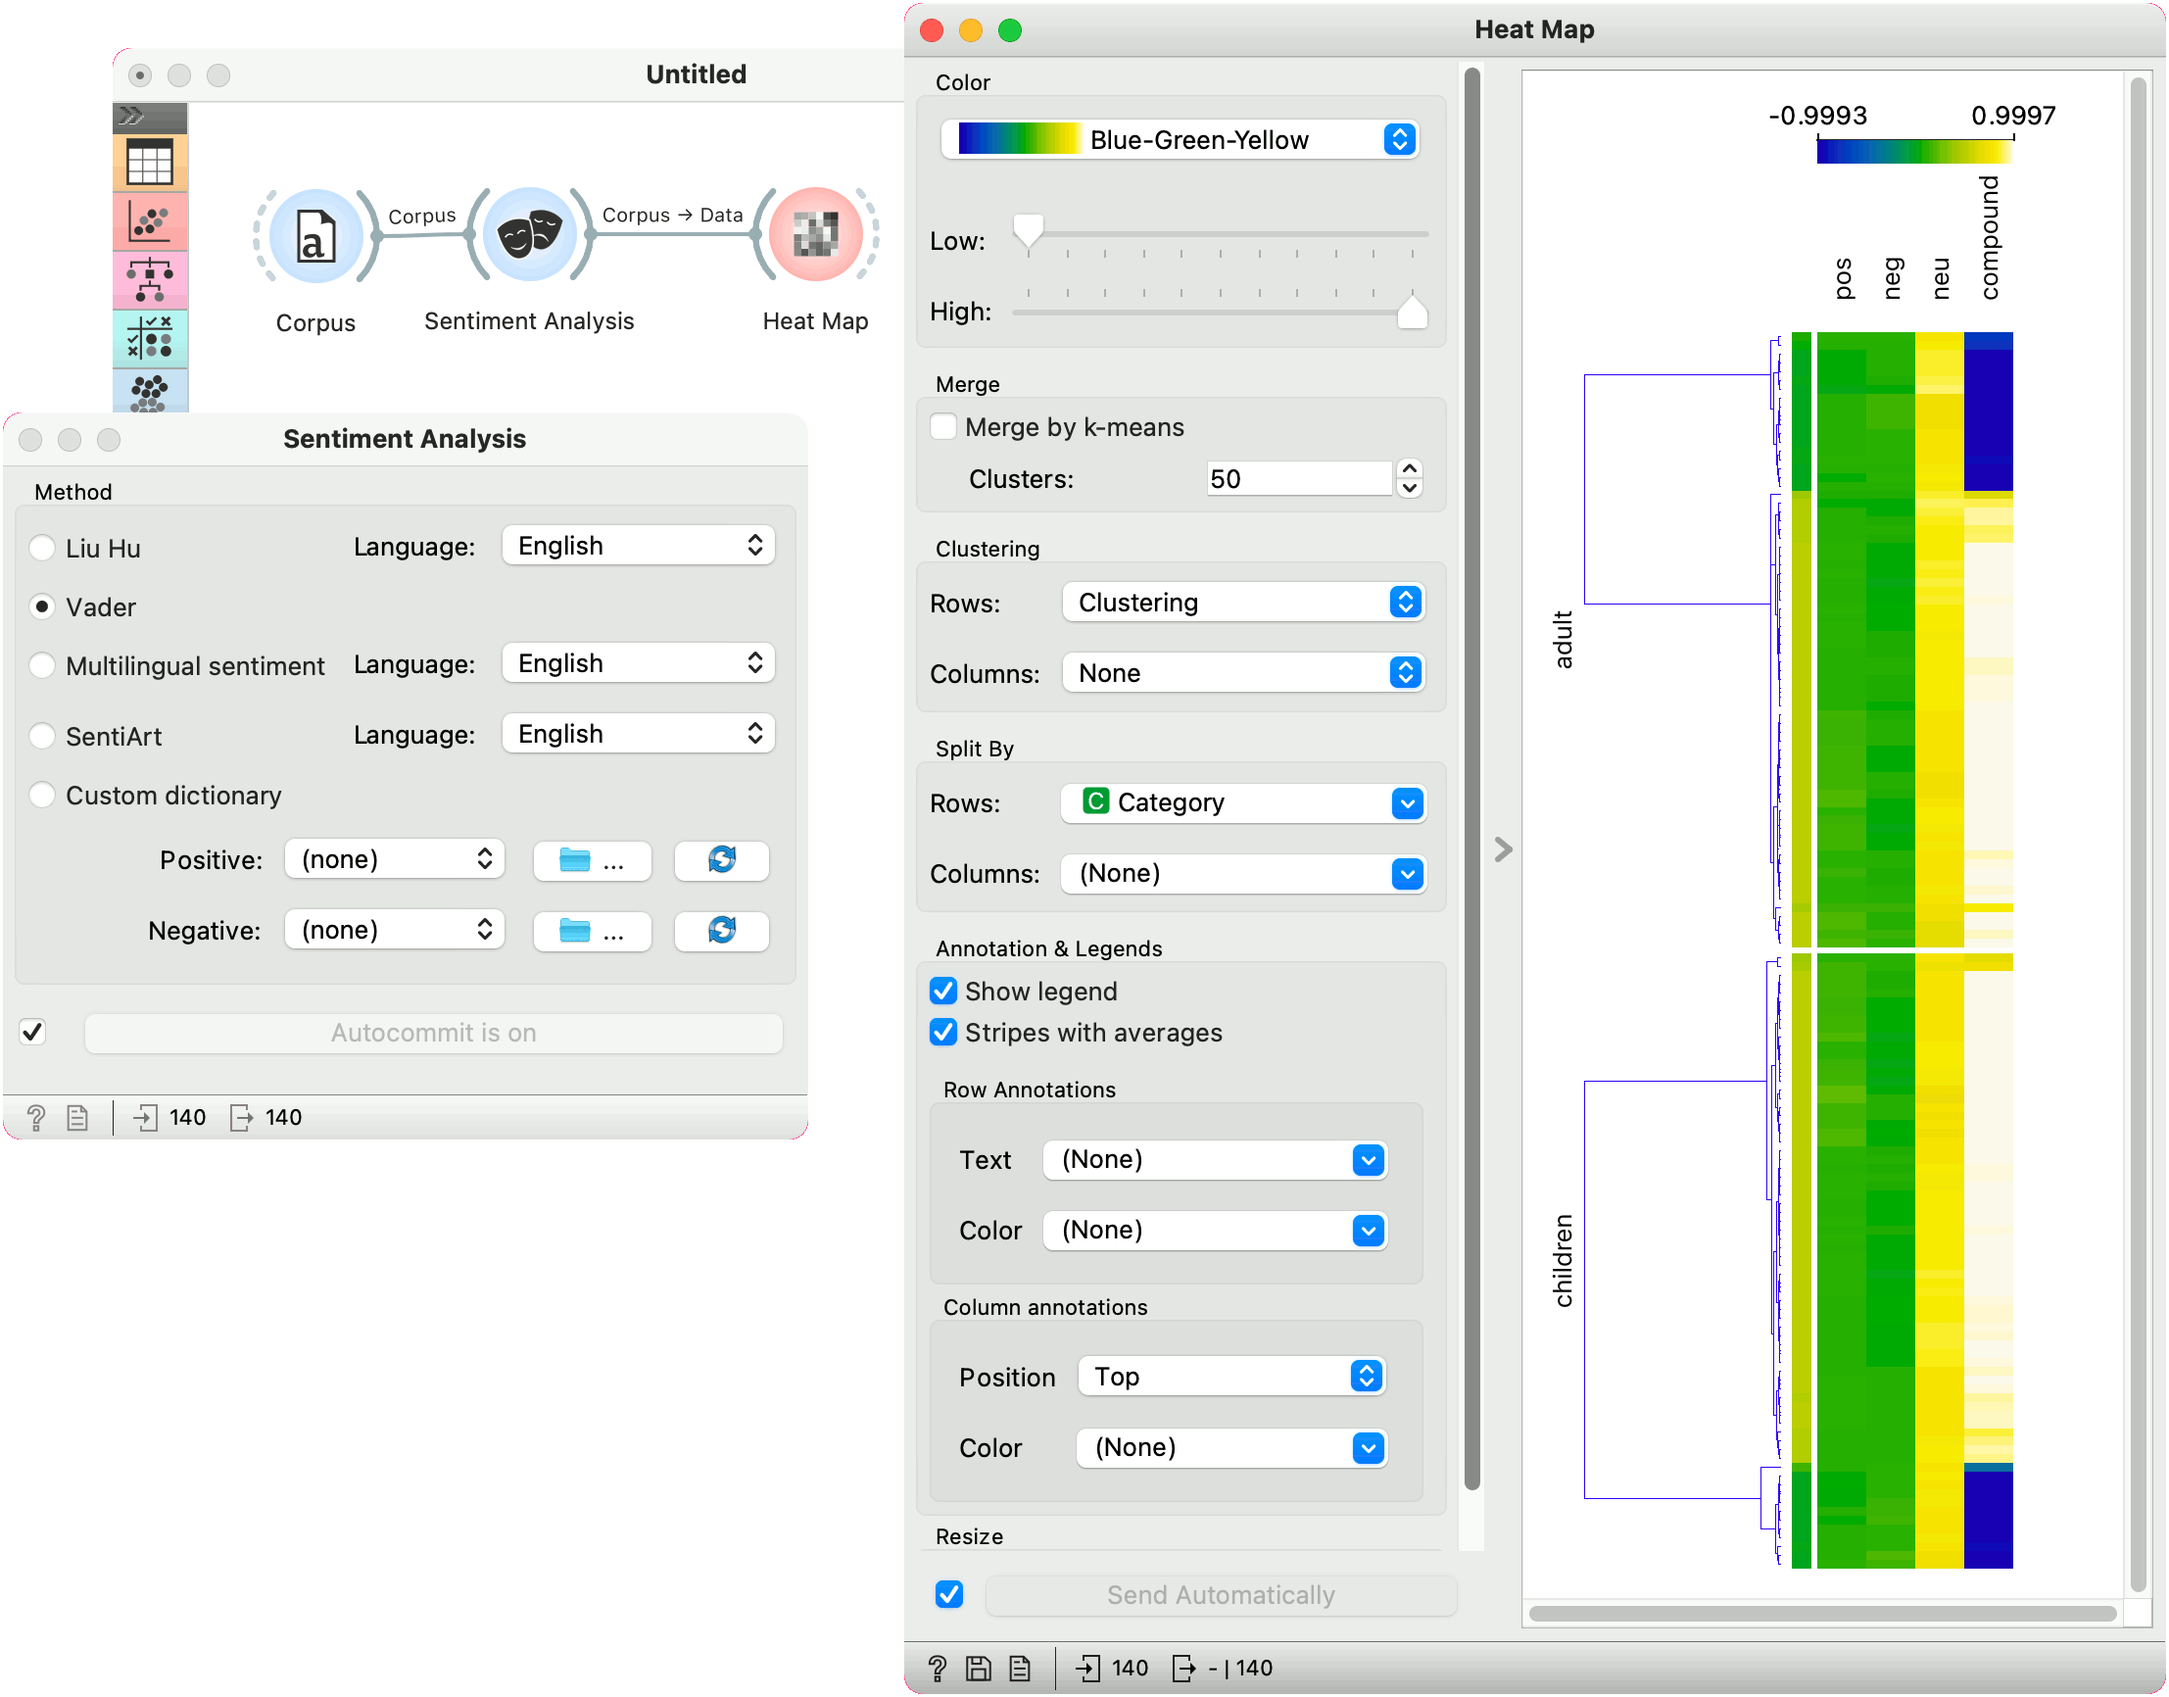
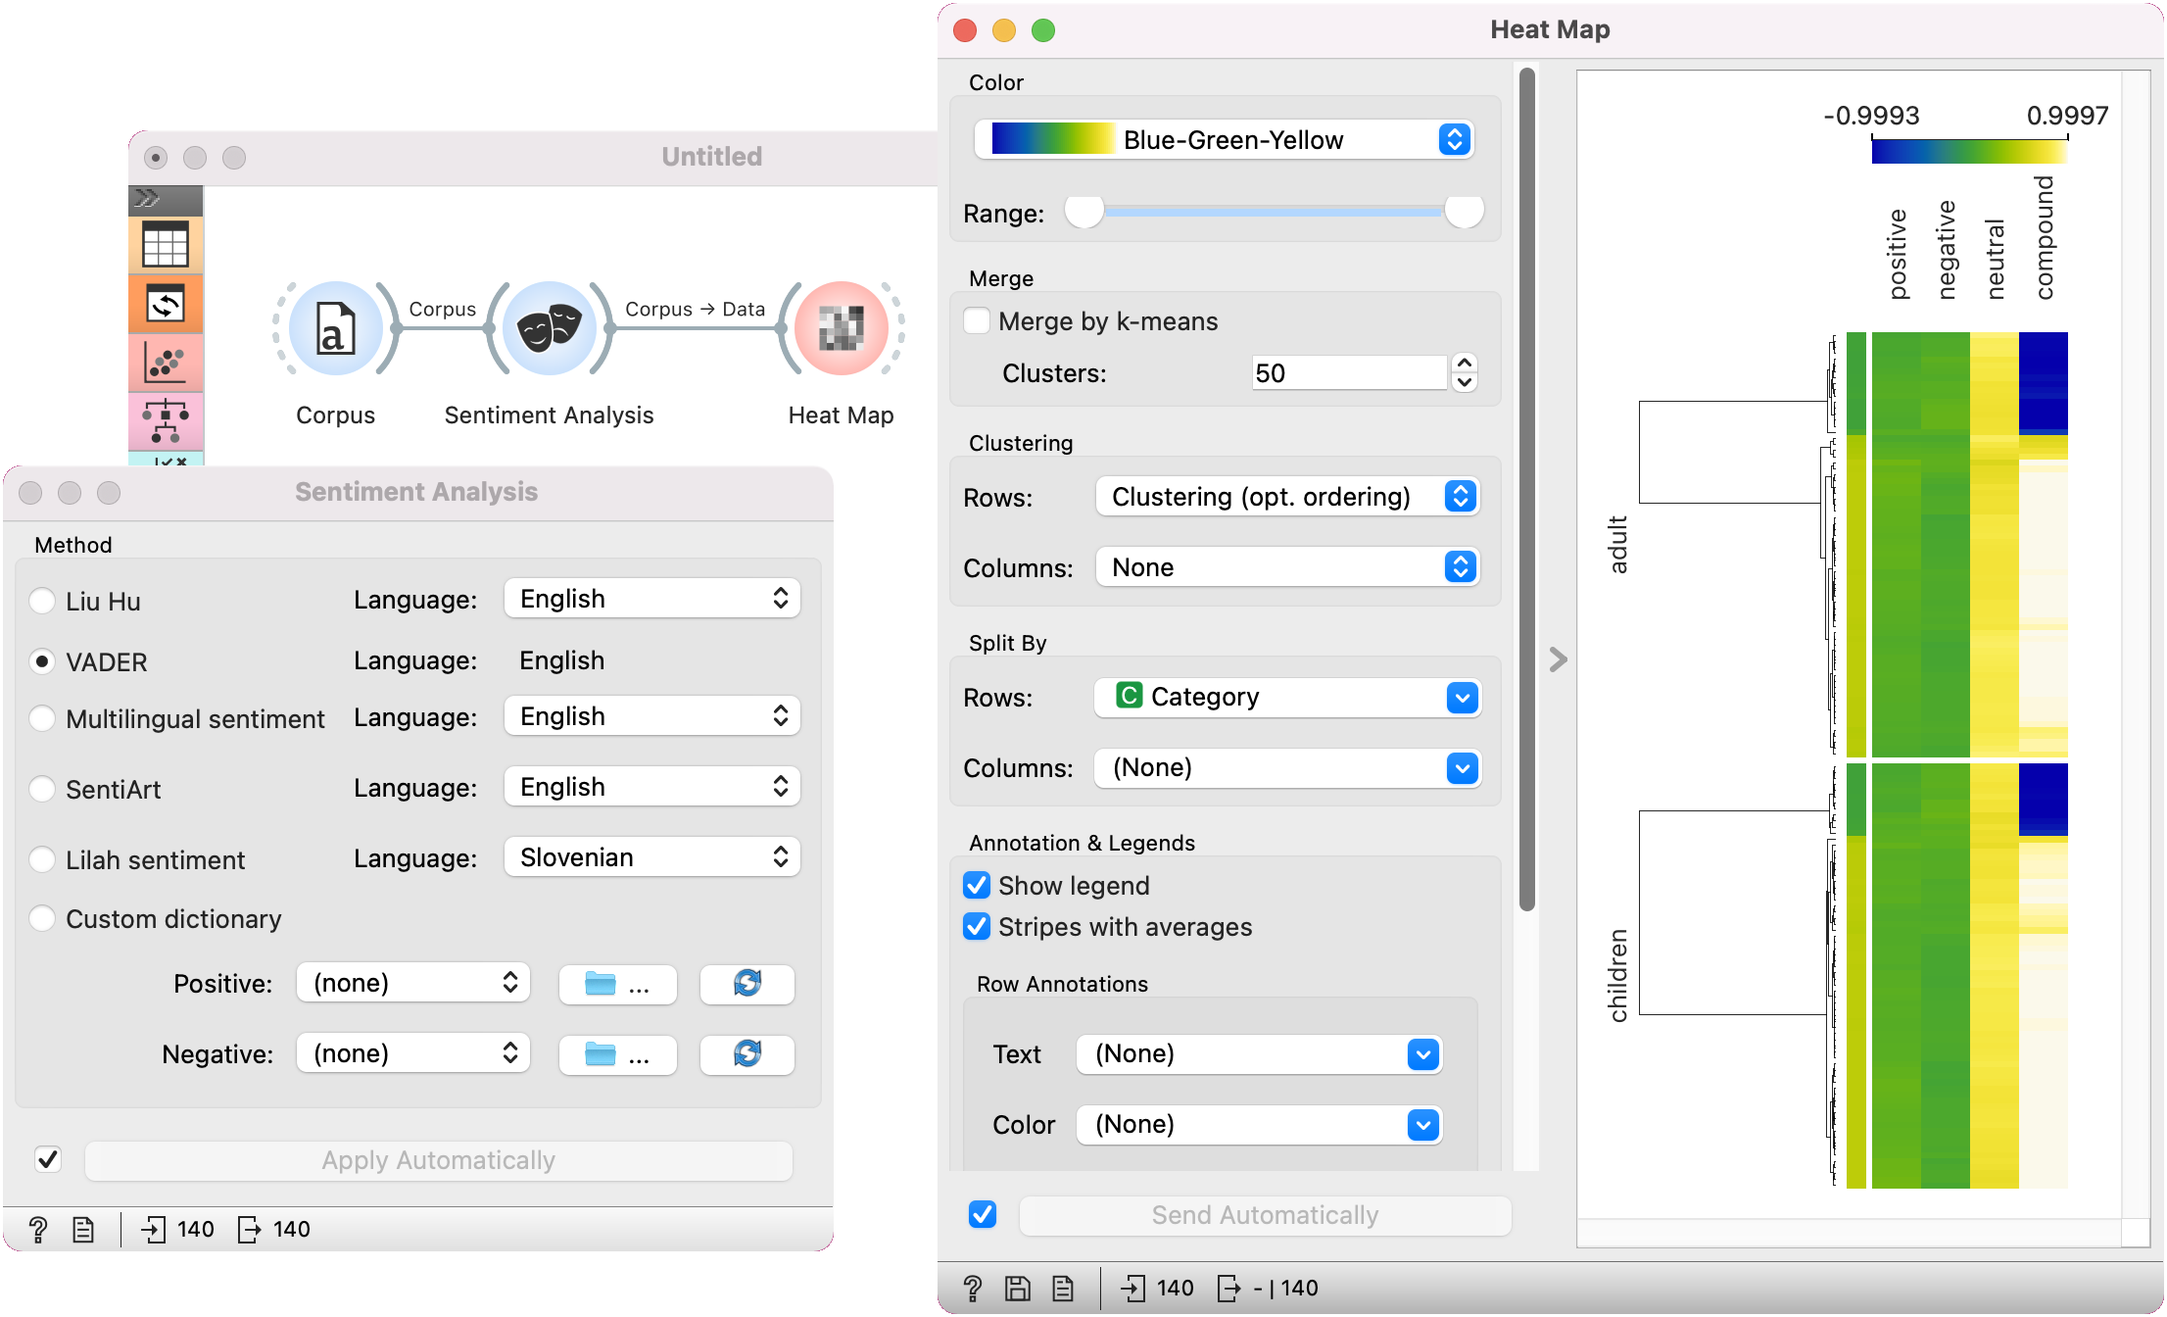
HeatMap

diff --git a/source/widgets/visualize/heatmap.md b/source/widgets/visualize/heatmap.md
@@ -16,20 +16,20 @@ Plots a heat map for a pair of attributes.
 
 The widget enables row selection with click and drag. One can zoom in with Ctrl++ (Cmd++) and zoom out with Ctrl+- (Cmd+-). Ctrl+0 (Cmd+0) resets zoom to the extended version, while Ctrl+9 (Cmd+9) reset it to the default.
 
-![](images/HeatMap.png)
+![](images/HeatMap-stamped.png)
 
-1. The color pallette. Choose from linear, diverging, color-blind friendly, or other pallettes. **Low** and **High** are thresholds for the color palette (low for attributes with low values and high for attributes with high values). Selecting one of diverging palettes, which have two extreme colors and a neutral (black or white) color at the midpoint, enables an option to set a meaningful mid-point value (default is 0).
+1. The color pallette. Choose from linear, diverging, color-blind friendly, or other pallettes. **Range** defines the low or high threshold for the color palette (left for attributes with low values and right for attributes with high values). Selecting one of diverging palettes, which have two extreme colors and a neutral (black or white) color at the midpoint, enables an option to set a meaningful mid-point value (default is 0).
 2. Merge rows. If there are too many rows in the visualization, one can merge them with k-means algorithm into N selected clusters (default 50).
 3. Cluster columns and rows:
    - **None** (lists attributes and rows as found in the dataset)
-   - **Clustering** (clusters data by similarity with hierarchical clustering on Euclidean distances and with average linkage)
+   - **Clustering** (clusters data by similarity with hierarchical clustering on Euclidean distances and with Ward linkage)
    - **Clustering with ordered leaves** (same as clustering, but it additionally maximizes the sum of similarities of adjacent elements)
 4. Split rows or columns by a categorical variable. If the data contains a class variable, rows will be automatically split by class.
-5. Set what is displayed in the plot in **Annotation & Legend**.
+5. **Annotation & Legend** sets what is displayed in the plot:
    - If *Show legend* is ticked, a color chart will be displayed above the map.
    - If *Stripes with averages* is ticked, a new line with attribute averages will be displayed on the left.
-   **Row Annotations** adds annotations to each instance on the right. Color colors the instances with the corresponding value of the selected categorical variable.
-   **Column Annotations** adds annotation to each variable at the selected position (default is Top). Color colors the columns with the corresponding value of the selected column annotation.
+   **Row Annotations** adds annotations to each instance on the right. *Color* colors the instances with the corresponding value of the selected categorical variable.
+   **Column Annotations** adds annotation to each variable at the selected position (default is Top). *Color* colors the columns with the corresponding value of the selected column annotation.
 6. If *Keep aspect ratio* is ticked, each value will be displayed with a square (proportionate to the map).
 7. If *Send Automatically* is ticked, changes are communicated automatically. Alternatively, click *Send*.
 
@@ -38,8 +38,6 @@ The widget enables row selection with click and drag. One can zoom in with Ctrl+
 Heat map enables some neat plot enhancements. Such options are clustering of rows and/or columns for better data organization, row and column annotations, and splitting the data by categorical variables.
 
 Row and column clustering is performed independently. Row clustering is computed from Euclidean distances, while column clustering uses Pearson correlation coefficients. Hierarchical clustering is based on the Ward linkage method. Clustering with optimal leaf ordering reorders left and right branches in the dendrogram to minimize the sum of distances between adjacent leaves (Bar-Joseph et al. 2001).
-
-
 
 ![](images/HeatMap-advanced.png)
 
@@ -52,13 +50,13 @@ The **Heat Map** below displays attribute values for the *brown-selected* data s
 
 Heat map shows low expressions in blue and high expressions in yellow and white. For better organization, we added *Clustering (opt. ordering)* to the columns, which puts columns with similar profiles closer together. In this way we can see the conditions that result in low expressions for ribosomal genes in the lower right corner.
 
-Additionally, the plot is enhanced with row color on the right, showing which class the rows belong to.
+We have selected some Proteas encoding genes with high expressions under the spo-mid condition. We can observe which genes these are in a [Data Table](../data/datatable.md).
 
 ![](images/HeatMap-Example1.png)
 
 ### Sentiment Analysis
 
-Heat maps are great for visualizing any kind of comparable numeric variables, for example sentiment in a collection of documents. We will take *book-excerpts* corpus from the **Corpus** widget and pass it to the **Sentiment Analysis** widget, which computes sentiment scores for each document. The output of sentiment analysis are four columns, positive, negative, and neutral sentiment score, and a compound score that aggregates the previous scores into a single number. Positive compound values (white) represent positive documents, while negative (blue) represent negative documents.
+Heat maps are great for visualizing any kind of comparable numeric variables, for example sentiment in a collection of documents. We will take *book-excerpts* corpus from the [Corpus](https://orangedatamining.com/widget-catalog/text-mining/corpus-widget/) widget and pass it to the [Sentiment Analysis](https://orangedatamining.com/widget-catalog/text-mining/sentimentanalysis/) widget, which computes VADER sentiment scores for each document. The output of sentiment analysis are four columns, positive, negative, and neutral sentiment score, and a compound score that aggregates the previous scores into a single number. Positive compound values (white) represent positive documents, while negative (blue) represent negative documents.
 
 We used row clustering to place similar rows closer together, resulting in clear negative and positive groups. Now we can select negative children's books and explore which are they.
 
